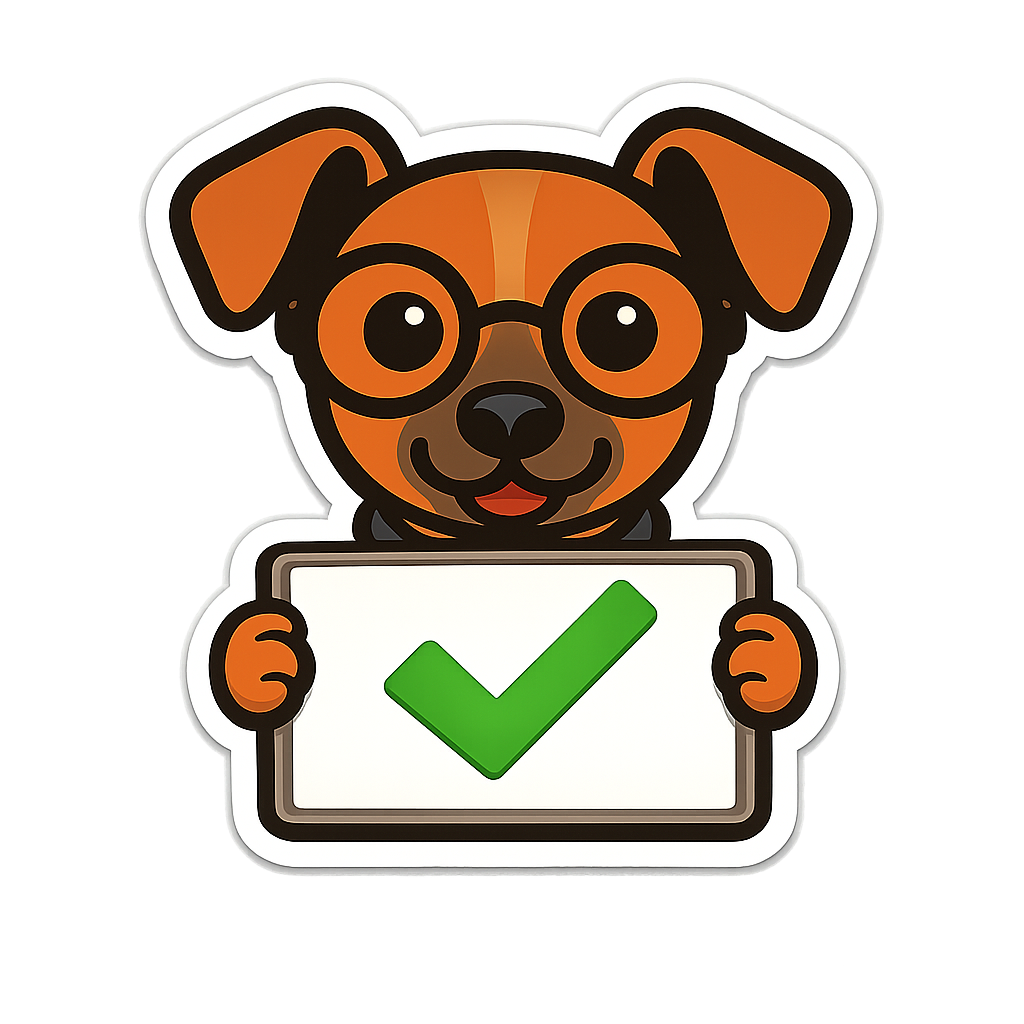
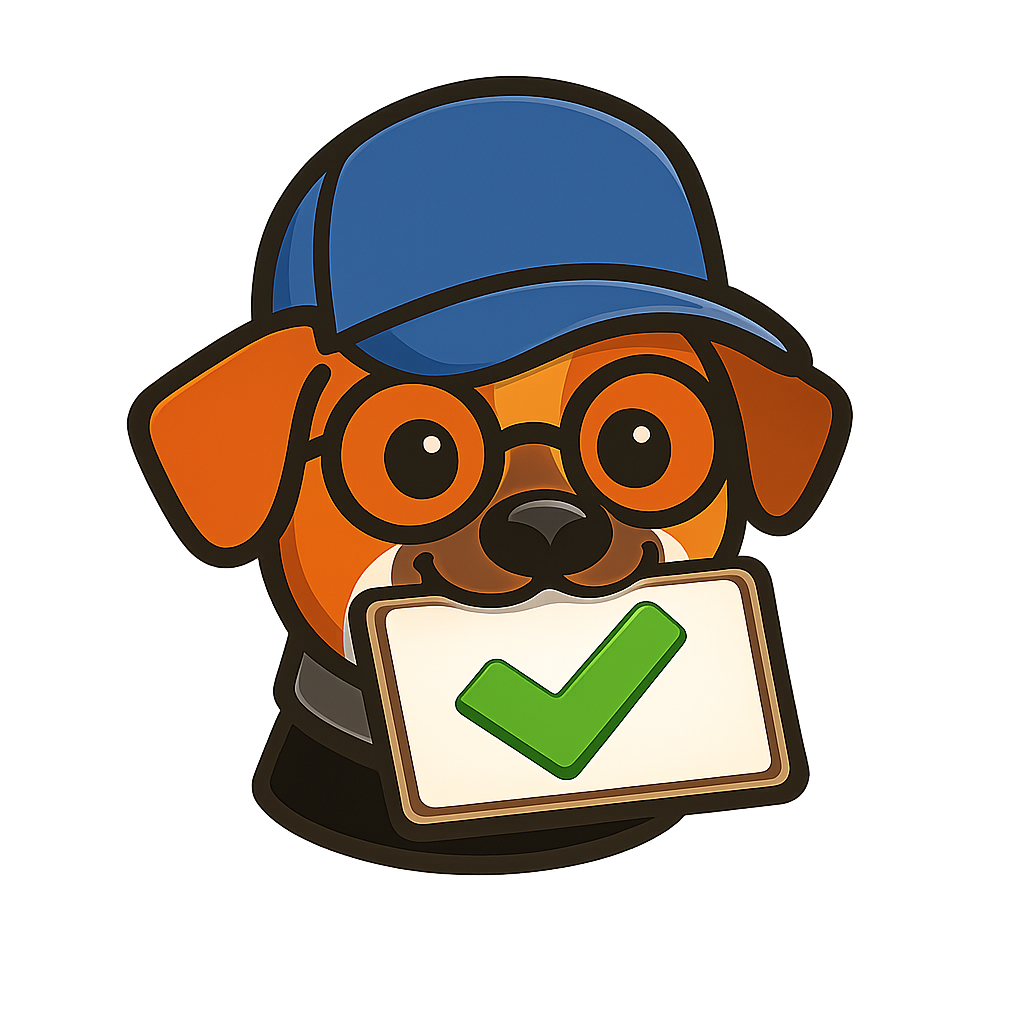
feat: update AttemptDetailPage to display quiz result images
- Modified AttemptDetailPage to include visual feedback using dog_correct.png and dog_incorrect.png based on quiz scores.
- Refactored the component to utilize the Next.js Image component for optimized image loading.
- Enhanced user experience by providing immediate visual cues for quiz performance.

diff --git a/canvas-chatbot-next/src/app/protected/artifacts/[id]/attempts/[attemptId]/page.tsx b/canvas-chatbot-next/src/app/protected/artifacts/[id]/attempts/[attemptId]/page.tsx
@@ -1,6 +1,7 @@
 'use client'
 
 import { useState, useEffect } from 'react'
+import Image from 'next/image'
 import { useParams, useRouter } from 'next/navigation'
 import Link from 'next/link'
 import { ArrowLeft, Loader2 } from 'lucide-react'
@@ -169,23 +170,32 @@ export default function AttemptDetailPage() {
         )}
 
         {/* Attempt Details */}
-        {!loading && !error && attempt && (
-          <div className="w-full space-y-6">
-            {/* Score Summary */}
-            <Card>
-              <CardContent className="p-6 lg:p-10">
-                <div className="grid grid-cols-1 md:grid-cols-[1fr_320px] gap-8 items-center">
-                  {/* Left Side: Text Details */}
-                  <div className="flex flex-col items-start text-left space-y-6">
-                    <div className="space-y-4">
-                      <div className="space-y-2">
-                        <h2 className="text-3xl lg:text-4xl font-bold tracking-tight">Attempt Details</h2>
-                        <p className="text-lg lg:text-xl text-muted-foreground">
-                          Score: <span className="font-semibold text-foreground">{attempt.score} out of {attempt.total_questions}</span> ({Math.round((attempt.score / attempt.total_questions) * 100)}%)
-                        </p>
-                      </div>
-                      
-                      <div className="space-y-1">
+        {!loading && !error && attempt && (() => {
+          const percent = Math.round((attempt.score / attempt.total_questions) * 100)
+          return (
+            <div className="w-full space-y-6">
+              {/* Score Summary */}
+              <Card>
+                <CardContent className="p-6 lg:p-10">
+                  <div className="grid grid-cols-1 md:grid-cols-[1fr_320px] gap-8 items-center">
+                    {/* Left Side: Text Details */}
+                    <div className="flex flex-col items-start text-left space-y-6">
+                      <div className="space-y-4">
+                        <Image
+                          src={percent >= 60 ? "/dog_correct.png" : "/dog_incorrect.png"}
+                          alt={percent >= 60 ? "Correct" : "Incorrect"}
+                          width={120}
+                          height={120}
+                          className="object-contain"
+                        />
+                        <div className="space-y-2">
+                          <h2 className="text-3xl lg:text-4xl font-bold tracking-tight">Attempt Details</h2>
+                          <p className="text-lg lg:text-xl text-muted-foreground">
+                            Score: <span className="font-semibold text-foreground">{attempt.score} out of {attempt.total_questions}</span> ({percent}%)
+                          </p>
+                        </div>
+                        
+                        <div className="space-y-1">
                         <p className="text-sm text-muted-foreground flex items-center gap-2">
                           <span className="font-medium">Completed on:</span> 
                           {new Date(attempt.completed_at).toLocaleString('en-US', { 
@@ -391,7 +401,8 @@ export default function AttemptDetailPage() {
               })}
             </div>
           </div>
-        )}
+        )
+      })()}
       </div>
     </div>
   )
